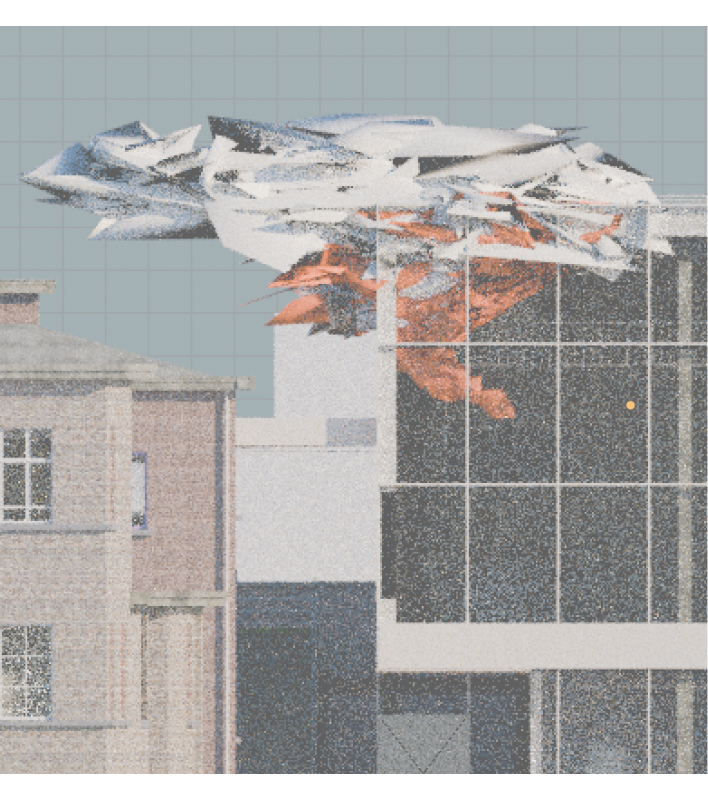
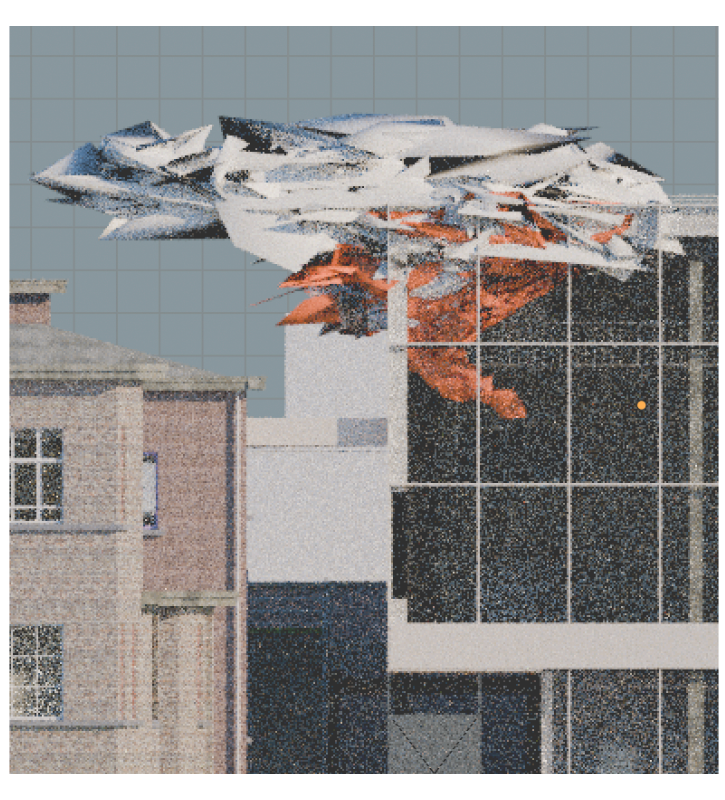
modified:   images/CAS01.png modified:   projects.css

diff --git a/projects.css b/projects.css
@@ -159,7 +159,7 @@ body {
 .cell-bg {
   position: absolute;
   inset: 0;
-  opacity: 0.80;
+  opacity: 0.70;
   transition: opacity 0.4s, filter 0.4s;
   background-size: cover;
   background-position: center;
@@ -284,7 +284,7 @@ body {
   /* always visible on mobile — no hover needed */
   #grid:hover .cell { opacity: 1; }
   .cell-bg {
-    opacity: 0.95;
+    opacity: 0.85;
     filter: saturate(0.85) brightness(0.85);
   }
   .cell-title {